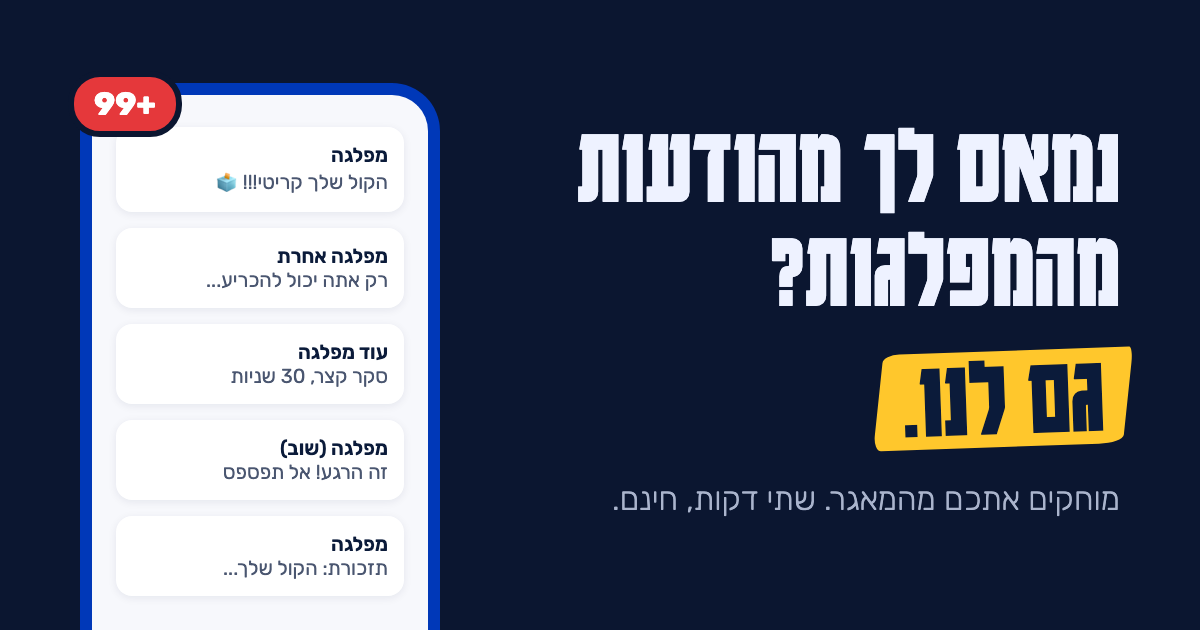
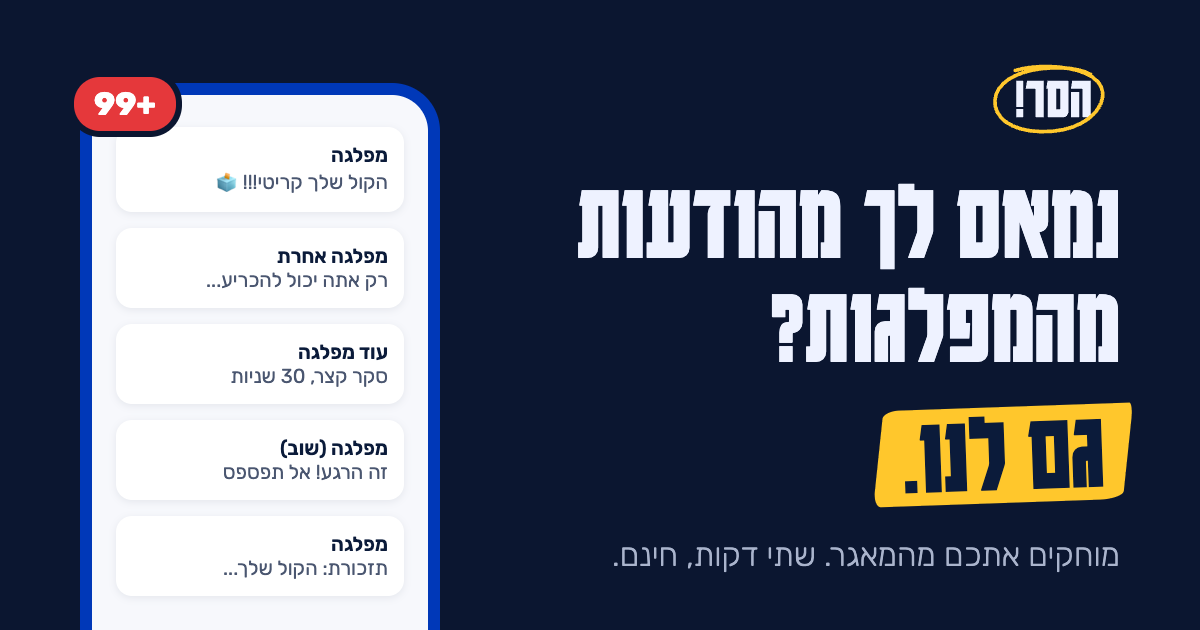
Share image and titles carry the new name
The WhatsApp/social preview image shows the הסר! logo above the slogan; the tab title and og:title read
"הסר! · נמאס לך מהודעות מהמפלגות? גם לנו."

Changed region(s): [[0.4625, 0.0905, 0.9558, 0.8143], [0.4933, 0.8444, 0.925, 0.9048]]

diff --git a/index.html b/index.html
@@ -23,17 +23,17 @@
 </script>
 <meta name="viewport" content="width=device-width, initial-scale=1">
 <link rel="icon" href="favicon.svg" type="image/svg+xml">
-<title>מחיקה ממאגרי המפלגות</title>
+<title>הסר! · נמאס לך מהודעות מהמפלגות? גם לנו.</title>
 <meta name="description" content="דרישה מהמפלגות למחוק את הפרטים שלכם ממאגרי המידע. מייל מוכן לכל רשימה, בלי שרת.">
 <meta property="og:type" content="website">
 <meta property="og:locale" content="he_IL">
 <meta property="og:url" content="https://nadavbh12.github.io/party-spam/">
-<meta property="og:title" content="מחיקה ממאגרי המפלגות">
+<meta property="og:title" content="הסר! · נמאס לך מהודעות מהמפלגות? גם לנו.">
 <meta property="og:description" content="דרישה מהמפלגות למחוק את הפרטים שלכם ממאגרי המידע. מייל מוכן לכל רשימה, בלי שרת.">
 <meta property="og:image" content="https://nadavbh12.github.io/party-spam/og.png">
 <meta property="og:image:width" content="1200">
 <meta property="og:image:height" content="630">
-<meta property="og:image:alt" content="נמאס לך מהודעות מהמפלגות? גם לנו.">
+<meta property="og:image:alt" content="הסר! · נמאס לך מהודעות מהמפלגות? גם לנו.">
 <meta name="twitter:card" content="summary_large_image">
 <style>
   /* Fonts are hosted with the page (no third-party requests): Rubik for text, Karantina for the title. */
@@ -1018,7 +1018,7 @@ function applyStaticText() {
   const meta = I18N.languages[lang];
   document.documentElement.lang = lang;
   document.documentElement.dir = meta.dir;
-  document.title = t('title');
+  document.title = `הסר! · ${t('title')}`;
   document.querySelectorAll('[data-t]').forEach(node => { node.textContent = t(node.dataset.t); });
   document.querySelectorAll('[data-not-he]').forEach(node => { node.hidden = lang === 'he'; });
   $('id-why').setAttribute('aria-label', t('idWhy'));

diff --git a/template.html b/template.html
@@ -23,17 +23,17 @@
 </script>
 <meta name="viewport" content="width=device-width, initial-scale=1">
 <link rel="icon" href="favicon.svg" type="image/svg+xml">
-<title>מחיקה ממאגרי המפלגות</title>
+<title>הסר! · נמאס לך מהודעות מהמפלגות? גם לנו.</title>
 <meta name="description" content="דרישה מהמפלגות למחוק את הפרטים שלכם ממאגרי המידע. מייל מוכן לכל רשימה, בלי שרת.">
 <meta property="og:type" content="website">
 <meta property="og:locale" content="he_IL">
 <meta property="og:url" content="https://nadavbh12.github.io/party-spam/">
-<meta property="og:title" content="מחיקה ממאגרי המפלגות">
+<meta property="og:title" content="הסר! · נמאס לך מהודעות מהמפלגות? גם לנו.">
 <meta property="og:description" content="דרישה מהמפלגות למחוק את הפרטים שלכם ממאגרי המידע. מייל מוכן לכל רשימה, בלי שרת.">
 <meta property="og:image" content="https://nadavbh12.github.io/party-spam/og.png">
 <meta property="og:image:width" content="1200">
 <meta property="og:image:height" content="630">
-<meta property="og:image:alt" content="נמאס לך מהודעות מהמפלגות? גם לנו.">
+<meta property="og:image:alt" content="הסר! · נמאס לך מהודעות מהמפלגות? גם לנו.">
 <meta name="twitter:card" content="summary_large_image">
 <style>
   /* Fonts are hosted with the page (no third-party requests): Rubik for text, Karantina for the title. */
@@ -968,7 +968,7 @@ function applyStaticText() {
   const meta = I18N.languages[lang];
   document.documentElement.lang = lang;
   document.documentElement.dir = meta.dir;
-  document.title = t('title');
+  document.title = `הסר! · ${t('title')}`;
   document.querySelectorAll('[data-t]').forEach(node => { node.textContent = t(node.dataset.t); });
   document.querySelectorAll('[data-not-he]').forEach(node => { node.hidden = lang === 'he'; });
   $('id-why').setAttribute('aria-label', t('idWhy'));

diff --git a/og/og.html b/og/og.html
@@ -13,6 +13,7 @@
   body { width: 1200px; height: 630px; overflow: hidden; background: #0B1630; color: #EEF2FF; font-family: "Rubik";
          display: flex; align-items: center; justify-content: space-between; padding: 0 80px; gap: 64px; }
   .text { flex: 1; }
+  .brand { display: block; height: 88px; width: auto; margin-bottom: 24px; color: #EEF2FF; --logo-loop: #FFC72C; }
   h1 { font-family: "Karantina"; font-weight: 700; font-size: 112px; line-height: 104px; }
   .marker { position: relative; z-index: 0; display: inline-block; margin-top: 24px; padding: 0 16px; color: #0B1B3A;
             transform: rotate(-2deg); }
@@ -30,6 +31,7 @@
 </head>
 <body>
   <div class="text">
+    <svg class="brand" viewBox="-32 56 436 288" xmlns="http://www.w3.org/2000/svg" role="img" aria-label="הסר!"><g fill="currentColor"><path transform="translate(60.0 260) scale(0.2 -0.2)" d="M20 171V600H133V171ZM20 0V136H133V0Z"/><path transform="translate(90.6 260) scale(0.2 -0.2)" d="M316 600V0H180V467H20L42 600Z"/><path transform="translate(157.8 260) scale(0.2 -0.2)" d="M384 600V93Q384 51 358.0 25.5Q332 0 290 0H47V467H20L42 600ZM248 138V467H183V133H243Q248 133 248 138Z"/><path transform="translate(238.6 260) scale(0.2 -0.2)" d="M210 0V467H20L42 600H346V0ZM20 0V413H156V0Z"/></g><path class="loop" pathLength="1" d="M 60.0 106.8 C 133.3 84.0, 280.0 87.5, 331.4 143.8 C 377.8 198.2, 316.7 293.2, 184.7 305.5 C 60.0 316.0, -10.9 266.8, -6.0 203.5 C -1.1 143.8, 72.2 101.6, 182.2 98.1 C 243.3 96.3, 280.0 105.1, 306.9 119.2" fill="none" stroke="var(--logo-loop)" stroke-width="12" stroke-linecap="round"/></svg>
     <h1>נמאס לך מהודעות מהמפלגות?<br><span class="marker">גם לנו.</span></h1>
     <p>מוחקים אתכם מהמאגר. שתי דקות, חינם.</p>
   </div>
